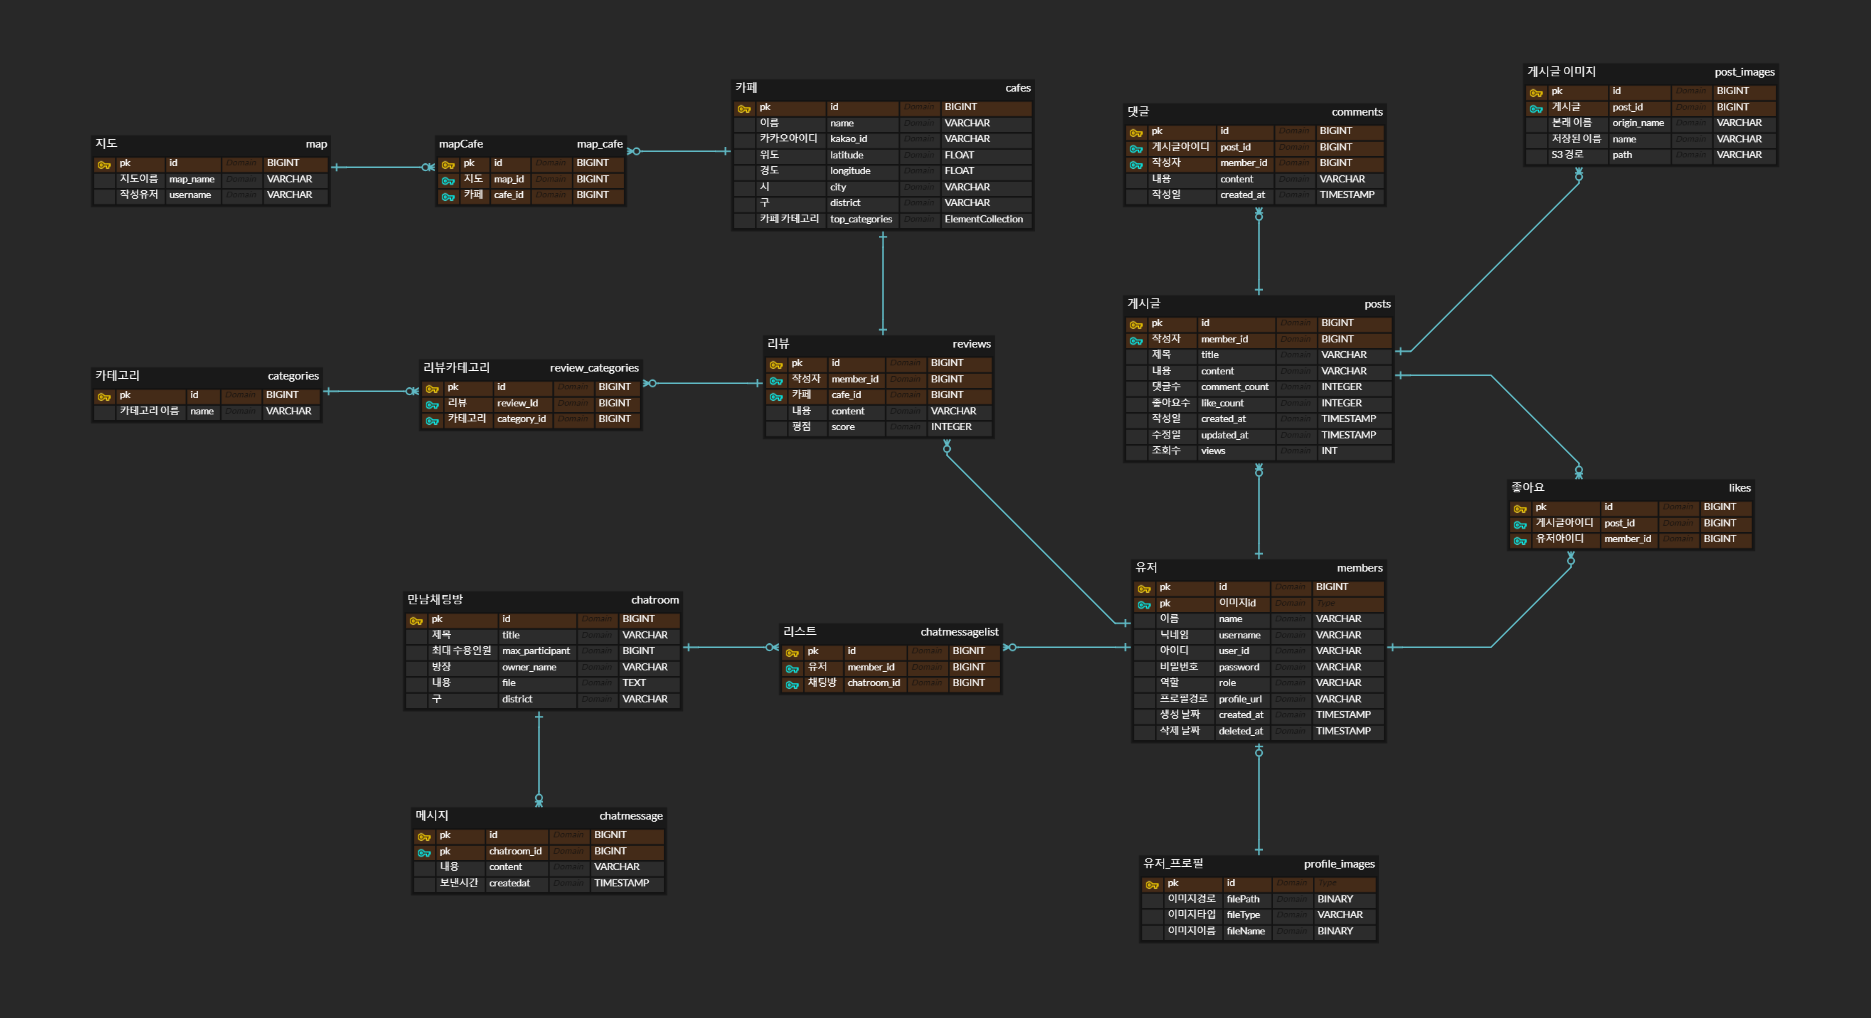
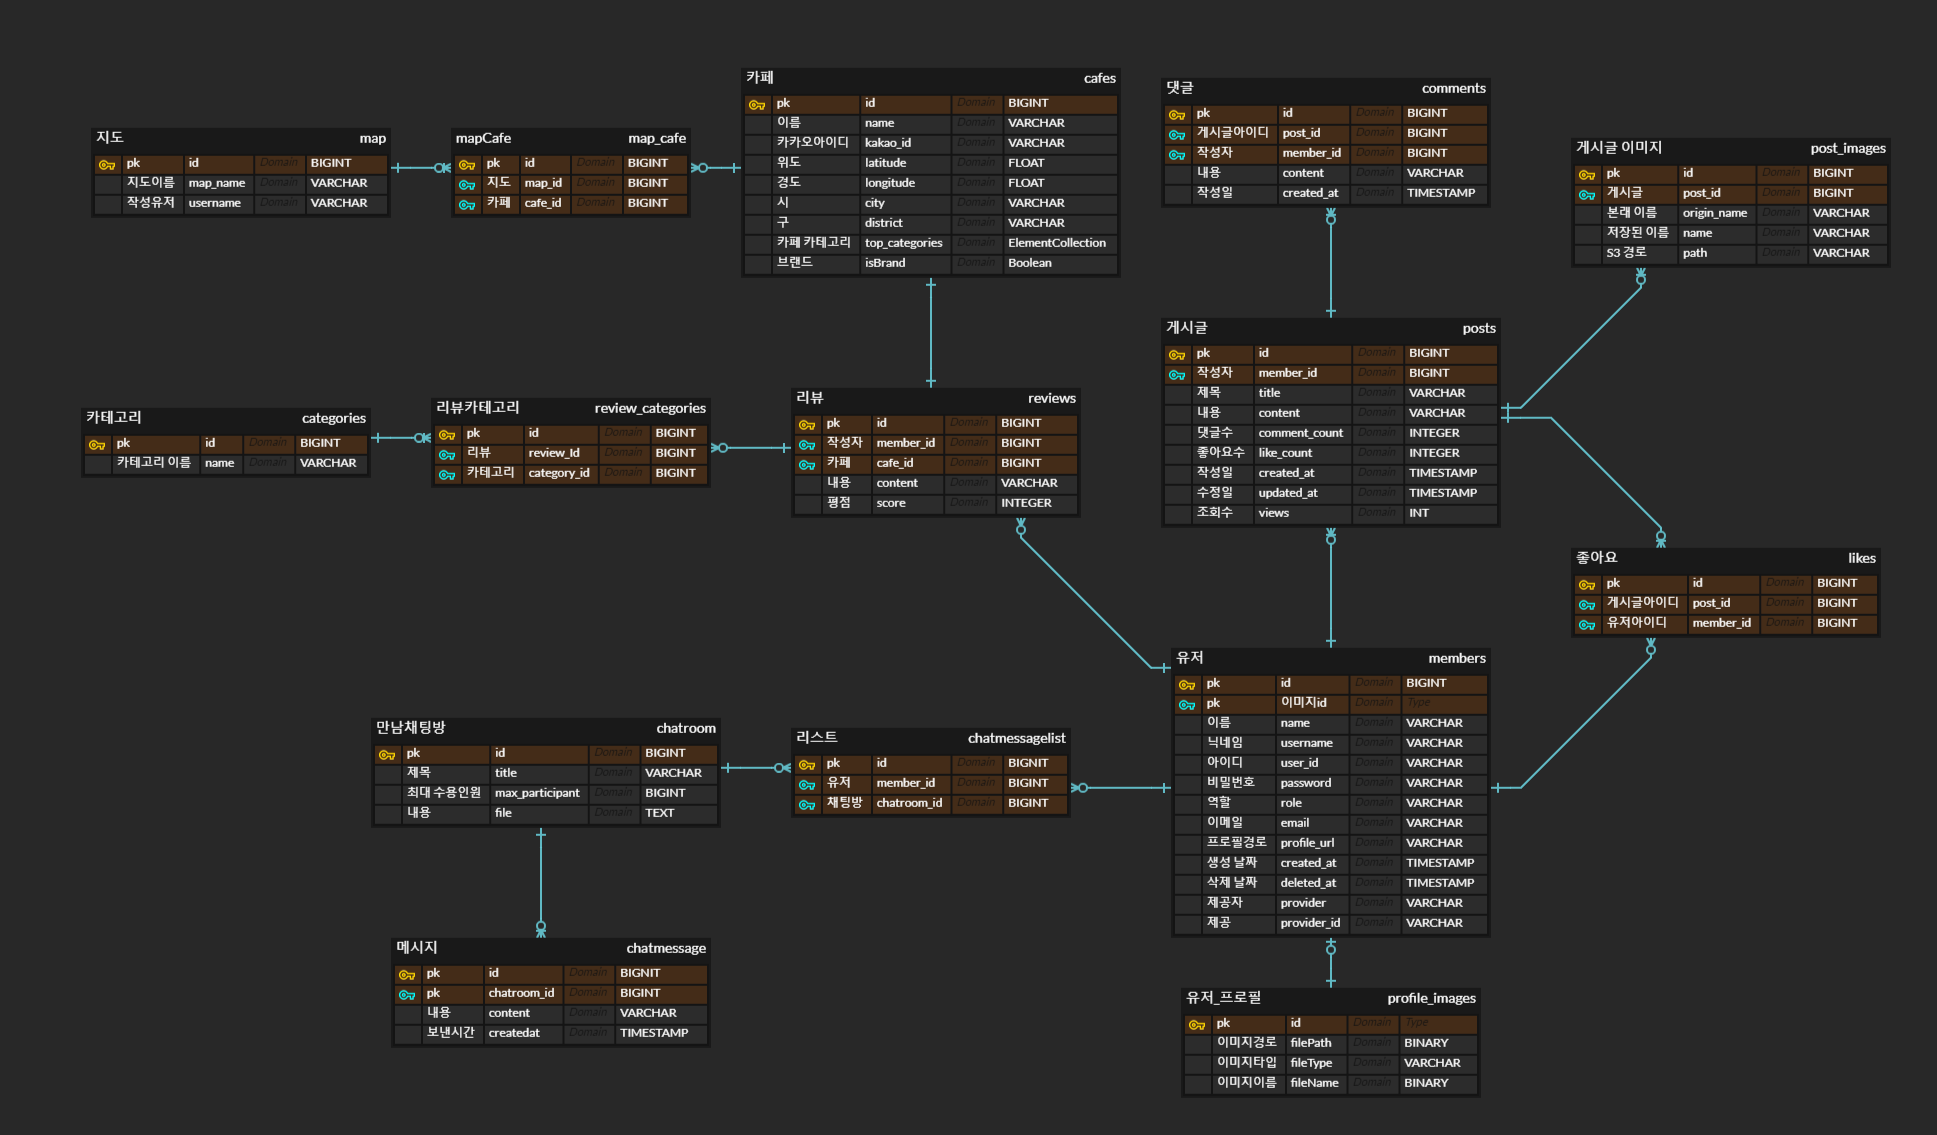
Docs: update README.md

diff --git a/README.md b/README.md
@@ -49,14 +49,18 @@
 >Admin ( 게시글 관리 )
 - 모든 게시글을 관리하며 삭제할 수 있다.
 
->Client ( 회원가입, 로그인, 회원정보 수정 / 탈퇴, 카페 검색, 나만의 지도 생성, 카페 간단 리뷰 작성, 카페 추천 게시글 작성 )
+>Client ( 회원가입, 로그인, 회원정보 수정 / 탈퇴, 카페 검색, 나만의 지도 생성, 카페 간단 리뷰 작성, 카페 추천 게시글 작성, 만남 채팅방 )
 1. 비회원
     - 지역별, 카테고리별로 카페를 검색할 수 있다.
+    - 브랜드 카페를 제외하여 검색할 수 있다.
+    - 메인에서 유저들의 공개된 지도를 조회할 수 있다.
     - 게시판에서 카페 추천 글을 조회하여 정보를 얻을 수 있다.
       - 최신순, 조회수순, 좋아요순, 댓글순으로 정렬하여 조회할 수 있다.
-      
+
 2. 회원
+    - 네이버, 카카오 소셜 로그인을 할 수 있다.
     - 지역별, 카테고리별로 카페를 검색할 수 있다.
+    - 브랜드 카페를 제외하여 검색할 수 있다.
     - 카페를 검색하여 간단 리뷰를 작성할 수 있다.
       - 평점 총 5점의 별점을 등록할 수 있다.
       - 카테고리를 선택하여 카페에 대한 정보를 간단히 등록할 수 있다.
@@ -67,9 +71,11 @@
       - 자주 가거나 좋아하는 카페들을 저장할 수 있다.
       - 나만의 지도에 등록된 카페들을 확인하고 리뷰 정보(평점, 카테고리, 간단 리뷰)를 확인 할 수 있다.
     - 게시판에서 카페 추천 게시글을 작성 / 수정 / 삭제를 할 수 있다.
+      - 위지윅 에디터 도구를 이용하여 좀 더 편리하게 게시글을 작성할 수 있다. 
       - 최대 5장의 이미지를 첨부하여 카페에 대한 상세한 리뷰를 작성할 수 있다.
     - 게시글에 댓글을 작성할 수 있고, 좋아요를 누를 수 있다.
     - 회원 정보를 수정(프로필 이미지, 닉네임 변경)하거나 탈퇴할 수 있다.
+    - 취향과 목적이 비슷한 지역 사람들과 소통하여 함께 카페를 방문하거나 카페 관련 활동을 즐길 수 있다.
    
    <br>
 
@@ -82,16 +88,18 @@
 * 전체 카페 검색
 * 지역별 카페 검색
 * 카테고리별 카페 검색
+* 브랜드 카페 제외 검색
+* 회원들의 공개된 지도 랜덤 조회
 
-   <details>
-      <summary><b>이미지 참고</b></summary>
+    <details>
+      <summary><b>카테고리 검색 이미지 참고</b></summary>
       <img src="/src/main/resources/static/readme/main_category.png">
-   </details>
+    </details>
 
 * 로그인 / 회원가입
 
    <details>
-      <summary><b>이미지 참고</b></summary>
+      <summary><b>회원가입 이미지 참고</b></summary>
       <img src="/src/main/resources/static/readme/user_signup.png">
    </details>
   
@@ -99,22 +107,35 @@
     * 비밀번호는 8자 이상 20자 이하이며 영문, 숫자, 특수 문자를 모두 포함
     * 비밀번호 확인
     * 닉네임 2자 이상 10자 이하
+    * 이메일 인증
+  
+   <details>
+      <summary><b>로그인 이미지 참고</b></summary>
+      <img src="/src/main/resources/static/readme/login.png">
+   </details>
+
+    * 아이디, 비밀번호 입력
+    * 소셜 로그인 (네이버, 카카오)
+
   
 * 게시판 조회
 
 ### 내 정보 관리
 <img src="/src/main/resources/static/readme/user_management.png">
 
-* 프로필 이미지 업로드
+* 프로필 이미지 업로드 및 제거
 * 닉네임 변경
 * 회원탈퇴
 
 ### 나만의 지도
 <img src="/src/main/resources/static/readme/my_map.png">
 
+* 카페 검색
 * 카테고리별 검색
+* 브랜드 카페 제외 검색
 * 자주 가는 카페, 가고 싶은 카페 저장
 * 지도 이름 생성
+* 지도 공개 / 비공개
 * 지도 목록 조회 및 관리
 
    <details>
@@ -127,11 +148,12 @@
 
 * 최신순, 조회수순, 좋아요순, 댓글순 정렬
 * 글쓰기
+  * 위지윅 에디터 적용 및 이미지 첨부
 
-   <details>
-      <summary><b>이미지 참고</b></summary>
-      <img src="/src/main/resources/static/readme/post_create.png">
-   </details>
+     <details>
+        <summary><b>이미지 참고</b></summary>
+        <img src="/src/main/resources/static/readme/post_create.png">
+     </details>
 
 
 ### 게시글
@@ -146,8 +168,20 @@
 * 좋아요
 
 
-### 채팅방
-* 아직..개발중...입니다..
+### 만남 채팅방
+* 채팅방 목록 조회
+     <details>
+        <summary><b>이미지 참고</b></summary>
+        <img src="/src/main/resources/static/readme/chat_room_list.png">
+     </details>
+  
+* 채팅방 방 제목, 인원 수 설정하여 개설
+* 인원 수 초과 시 입장 불가
+* 채팅
+     <details>
+        <summary><b>이미지 참고</b></summary>
+        <img src="/src/main/resources/static/readme/chat_room.png">
+     </details>
 
 </details>
 
